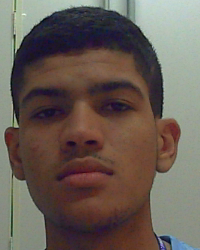
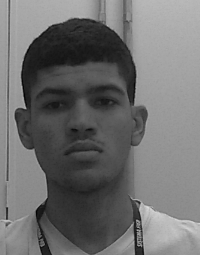
Reconhecendo a minha face

diff --git a/face.py b/face.py
@@ -5,12 +5,11 @@ import sys, getopt
 import numpy as np
 #import matplotlib.pyplot as plt
 
-crop_img = ""
-face = vis = edge = ""
-fn = ""
+tam = 0; texto = ""; crop_img = ""; vis = ""; fn = ""
 font = cv2.FONT_HERSHEY_SIMPLEX
 template = cv2.imread('recote_padrao.png',0)
 w, h = template.shape[::-1]
+
 def detect(img, cascade):
   rects = cascade.detectMultiScale(img, scaleFactor=1.3, minNeighbors=4, minSize=(30, 30), flags = cv2.CASCADE_SCALE_IMAGE)
   if len(rects) == 0:
@@ -18,35 +17,29 @@ def detect(img, cascade):
   rects[:,2:] += rects[:,:2]
   return rects
 
-def draw_rects(img, rects, color, img_gray):
+def draw_rects(img, rects, color, img_gray, name):
   for x1, y1, x2, y2 in rects:
-    it = x1, y1, x2, y2
     res = cv2.matchTemplate(img_gray,template,cv2.TM_CCOEFF_NORMED)
     threshold = 0.8
-    loc = np.where( res >= threshold)
-    tam = len(loc[0]+loc[1])
+    loc = np.where(res >= threshold)
+    tam = len(loc[1]+loc[0])
     if tam > 0:
-      cv2.putText(img,'Face Found',(x1,y1-20), font, 1,(255,255,255),1,cv2.LINE_AA)
+      cv2.putText(img,'%s'%name,(x1,y1-20), font, 1,(255,255,255),1,cv2.LINE_AA)
       test = cv2.rectangle(img, (x1, y1), (x2, y2), color,2)
-      a = y1 + x2
-      b = y2 + x1
-      edge = cv2.Canny(img, b, a)
-      vis[edge != 0] = (255,245,240)
+    else:
+     cv2.putText(img,'Nao Encontrada',(x1,y1-20), font, 1,(255,255,255),1,cv2.LINE_AA)
+     test = cv2.rectangle(img, (x1, y1), (x2, y2), color,2)
+def takePicture(x, top, bottom, left, right):
+  timestamp = time.strftime("%S", time.localtime())
+  top = 125; bottom = 380; left = 250; right = 450;
+  if x == 1:
+    fn = '%s/%s.jpg' % ('./img', timestamp)
+    crop_img = img[top:bottom, left:right]
+    crop_img = cv2.cvtColor(crop_img, cv2.COLOR_BGR2GRAY)
+    cv2.imshow('%s'%timestamp,crop_img)
+    cv2.imwrite(fn,crop_img)
+    print (fn, 'saved')
 
-def takePicture():
-  timestamp = time.strftime("%d-%m-%Y_%H-%M-%S", time.localtime())
-  fn = '%s/%s.jpg' % ('./img', timestamp)
-  top = 100 
-  bottom = 350
-  left = 250
-  right = 450
-  crop_img = img[top:bottom, left:right]
-  cv2.imshow('Recote',crop_img)
-  cv2.imwrite('recote_padrao.png',crop_img)
-  cv2.imwrite(fn, img)
-  img_rgb = cv2.imread(fn)
-
-  print (fn, 'saved')
 args, video_src = getopt.getopt(sys.argv[1:], '', ['cascade=', 'nested-cascade='])
 args = dict(args)
 cascade_fn = args.get('--cascade', "../data/haarcascades/haarcascade_frontalface_alt.xml")
@@ -63,17 +56,18 @@ while True:
   gray = cv2.equalizeHist(gray)
   rects = detect(gray, cascade)
   vis = img.copy()
-  draw_rects(vis, rects, (0, 1, 0), rects)
+  draw_rects(vis, rects, (0, 1, 0), gray, texto)
+  keyboard = cv2.waitKey(1)
   for x1, y1, x2, y2 in rects:
     roi = gray[y1:y2, x1:x2]
     vis_roi = vis[y1:y2, x1:x2]
     subrects = detect(roi.copy(), nested)
-    #draw_rects(vis_roi, subrects,(50,119,247))
-  cv2.imshow('facedetect', vis)
-  keyboard = cv2.waitKey(1)
+    if keyboard == ord(' '):
+      x = 1
+      texto = raw_input("Digite:")
+      takePicture(x, x1, y2, x2, y1)
   if keyboard == 27:
-    break
-  if keyboard == ord(' '):
-    takePicture()
+      break
+  cv2.imshow('facedetect', vis)
     
 cv2.destroyAllWindows()
